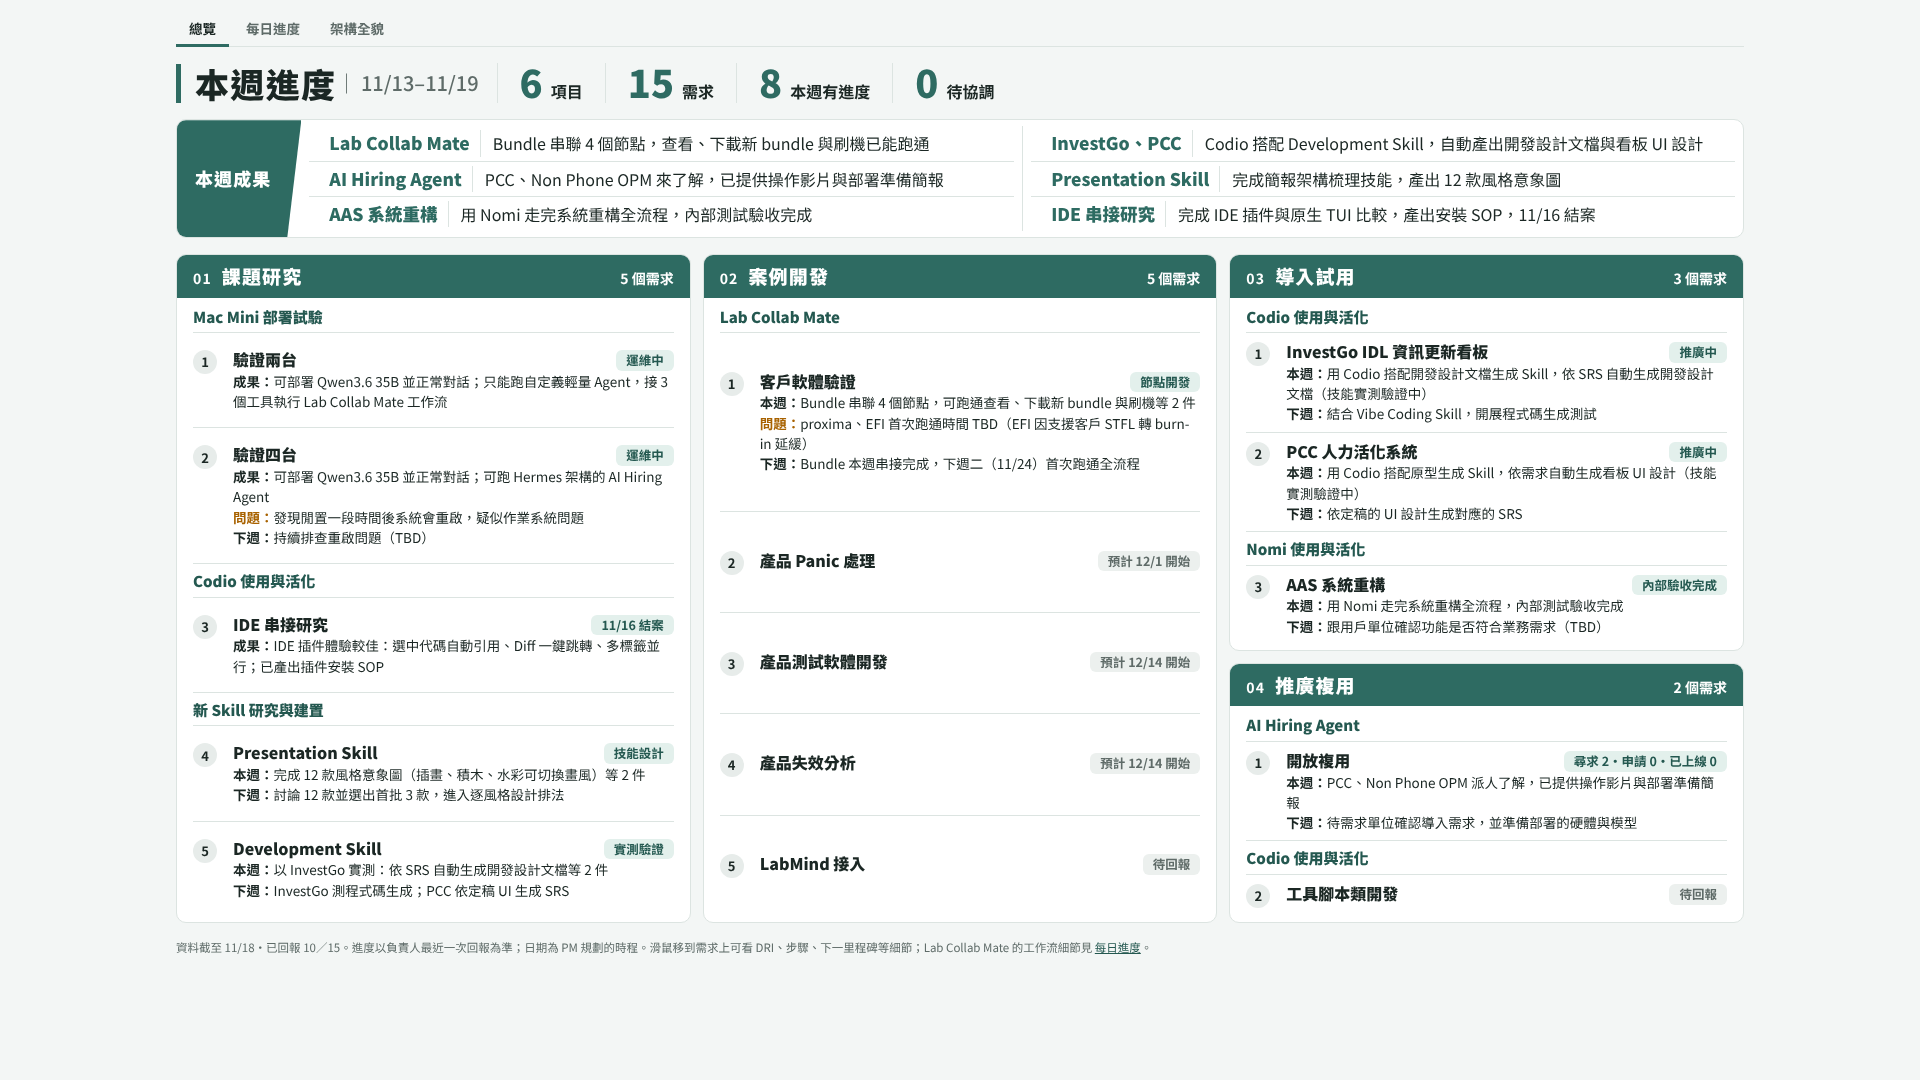
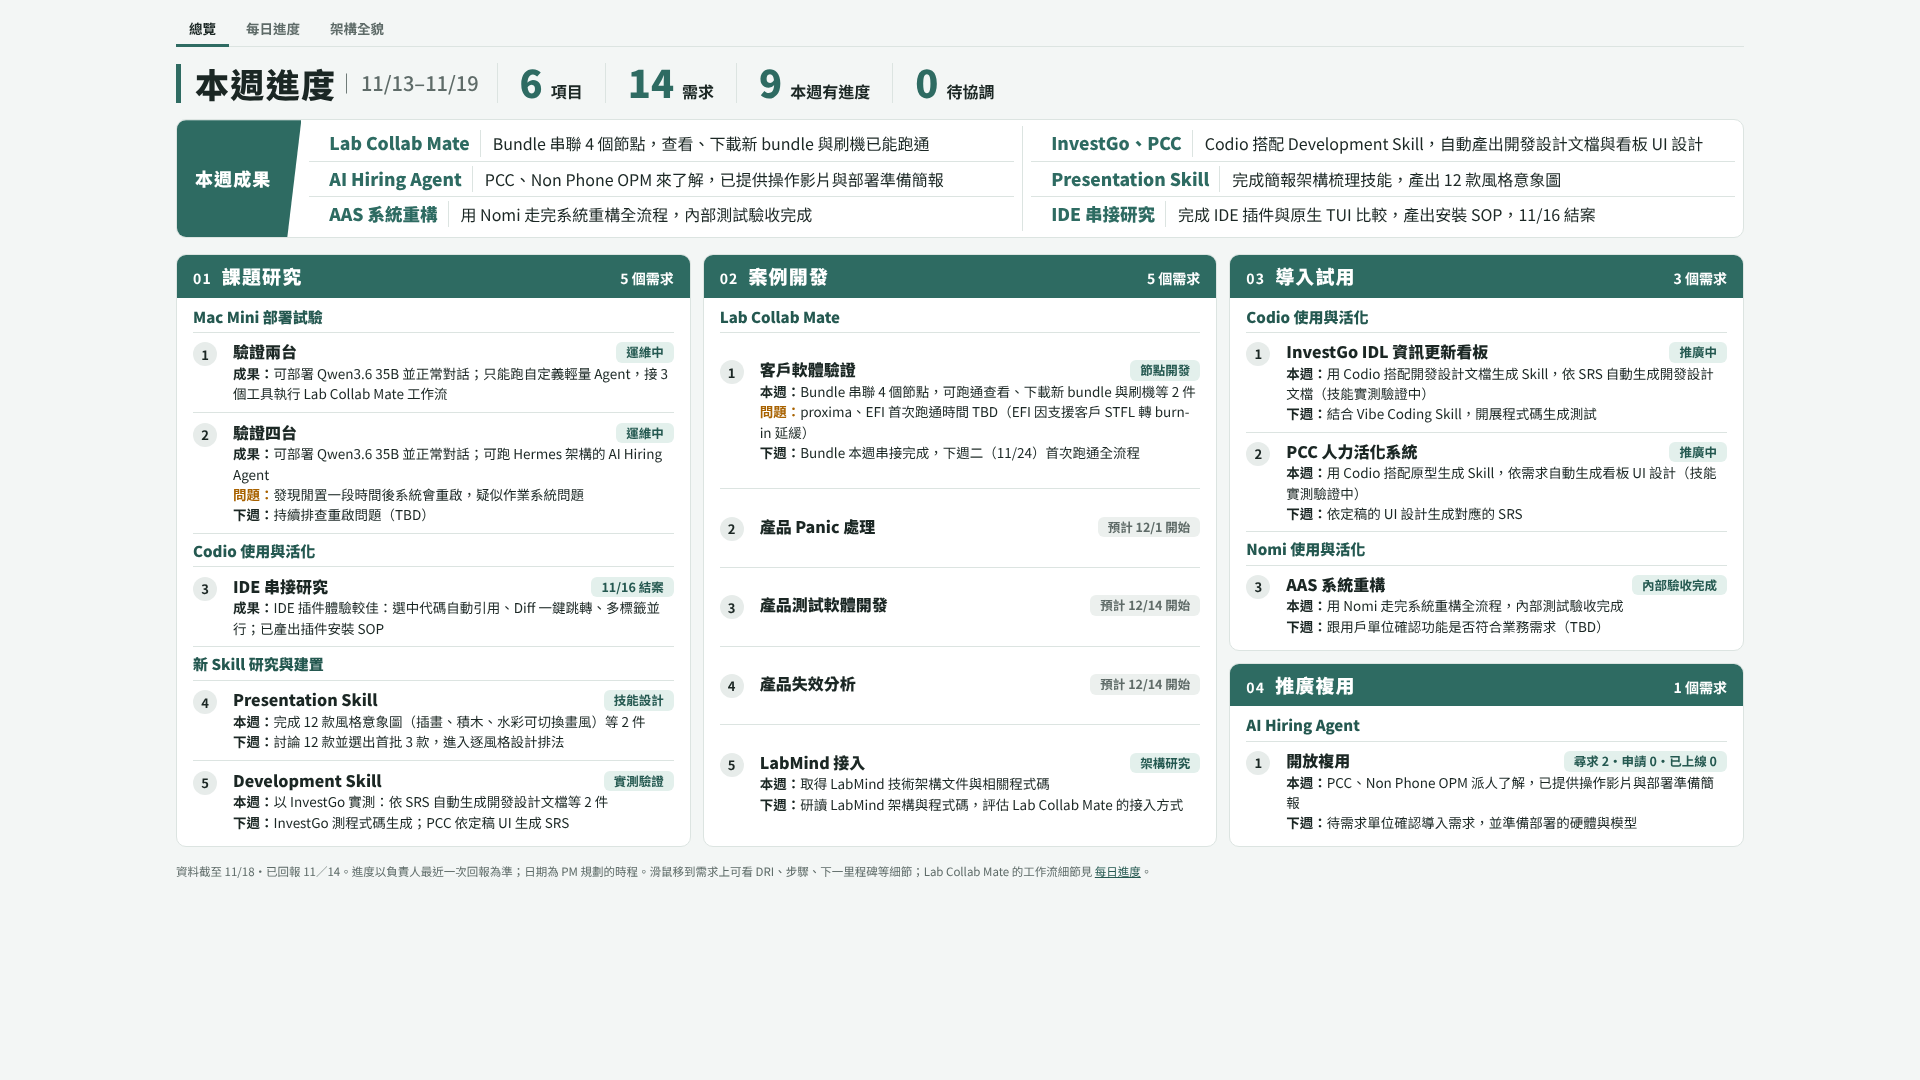
[2026-11-17_overview-redesign] 移除工具腳本類開發需求；LabMind 接入本週取得架構與程式碼、下週研讀評估
Claude-Session: https://claude.ai/code/session_01Cd6Gft6mTX8zcMZinAmXya

diff --git a/public/index.html b/public/index.html
@@ -234,7 +234,9 @@ const MODULES = [
      ms:[["2026-12-14","開始調研"],["2027-01-08","給出時程"]], rep:null, last:{date:"2026-11-11", now:-1}},
     {proj:"Lab Collab Mate", name:"LabMind 接入", type:"deliver", dri:null, steps:["架構研究","適配設計","資源評估與準備","正式串連測試","用戶 Try Run"],
      ms:[["2026-11-16","開始架構研究"],["2026-12-07","適配設計、資源評估與準備同時開始"],["2026-12-11","和 LabMind 團隊定案方案 A／B"],["2027-01-08","部署方案提案會"]],
-     rep:null}
+     rep:{now:0,
+          done:["取得 LabMind 技術架構文件與相關程式碼"],
+          next:["研讀 LabMind 架構與程式碼，評估 Lab Collab Mate 的接入方式"]}}
   ]},
   {no:"③", name:"導入試用", col:2, reqs:[
     {proj:"Codio 使用與活化", name:"InvestGo IDL 資訊更新看板", type:"promo", dri:"Lucas", rel:"與 Development Skill 共用 InvestGo 驗證",
@@ -259,8 +261,7 @@ const MODULES = [
      rep:{nums:{"尋求":2, "申請":0, "已上線":0},
           done:["PCC、Non Phone OPM 派人了解，已提供操作影片與部署準備簡報"],
           next:["待需求單位確認導入需求，並準備部署的硬體與模型"],
-          hl:[{i:0, o:2, s:"AI Hiring Agent", t:"PCC、Non Phone OPM 來了解，已提供操作影片與部署準備簡報"}]}},
-    {proj:"Codio 使用與活化", name:"工具腳本類開發", type:"promo", dri:null, rep:null}
+          hl:[{i:0, o:2, s:"AI Hiring Agent", t:"PCC、Non Phone OPM 來了解，已提供操作影片與部署準備簡報"}]}}
   ]}
 ];
 

diff --git a/work/2026-11-17_overview-redesign/outputs/data-template.md b/work/2026-11-17_overview-redesign/outputs/data-template.md
@@ -117,7 +117,6 @@ A. 驗證兩台　B. 驗證四台
 | AI Hiring Agent | 開放複用 | 推廣型 | 尋求單位數、申請單位數、已上線單位數 |
 | Mac Mini 部署試驗 | 驗證兩台 | 研究型 | 目前結論（可穩定運行的模型上限） |
 | | 驗證四台 | 研究型 | 目前結論（模型上限、Hiring Agent 端到端結果） |
-| Codio 使用與活化 | 工具腳本類開發 | 推廣型（無數字） | 不問；共 3 題 |
 | | 大型系統類開發 | 推廣型（無數字） | 不問；共 3 題；與 Development Skill 共用 InvestGo 驗證 |
 | | IDE 串接研究 | 研究型 | 目前結論（從 IDE 用 Codio 與直接用的差異） |
 | Nomi 使用與活化 | AAS 系統重構 | 交付型 | 做到哪一步：系統分析／需求梳理／原型確認／技術規劃／AI 開發測試／內部試用驗收／用戶單位確認／Xylon 架構重構（DRI：Tylee） |
